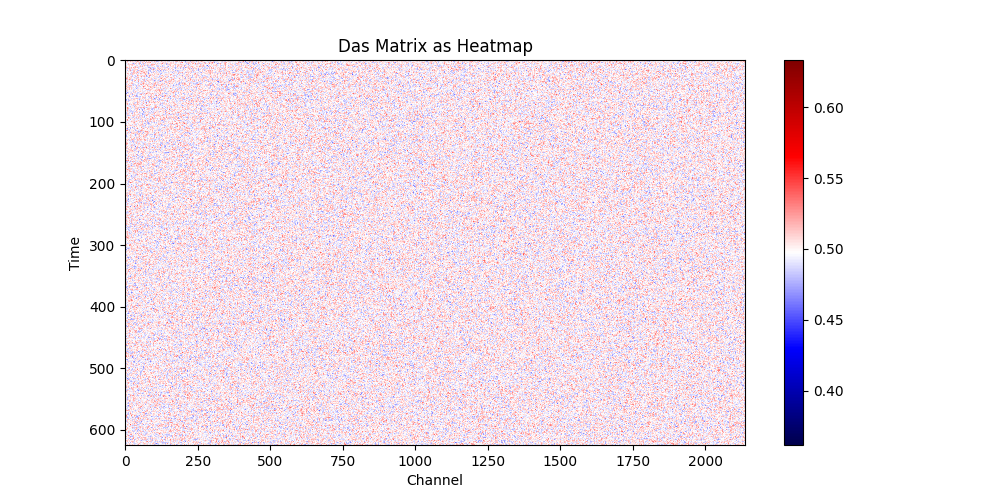
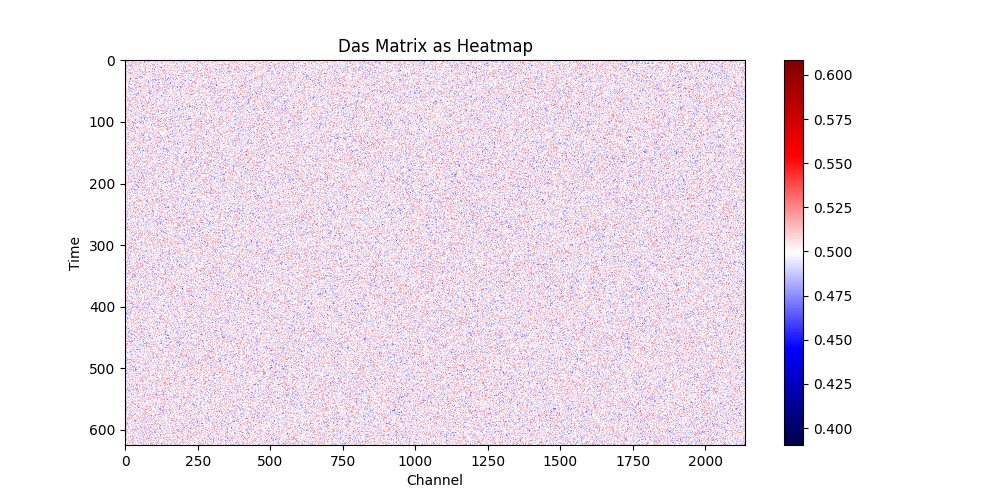
enums moved to their own file, predict now supports all calls

diff --git a/tinydas/models/base.py b/tinydas/models/base.py
@@ -3,6 +3,9 @@ from typing import Dict, Tuple
 
 from tinygrad.nn import Tensor
 
+from tinydas.enums import Models
+from tinydas.utils import minmax
+
 
 class BaseAE(ABC):
     """
@@ -34,7 +37,17 @@ class BaseAE(ABC):
         """
         Tensor.no_grad = True
         x = x.reshape(1, 625 * 2137)
-        (out,) = self(x)
+        x = minmax(x)
+        match self.__class__.__name__.lower():
+            case Models.AE:
+                (out,) = self(x)
+            case Models.CNNAE:
+                (out,) = self(x)
+            case Models.VAE:
+                (out, _, _) = self(x)
+            case _:
+                (out,) = self(x)
+
         out = out.reshape(625, 2137)
         Tensor.no_grad = False
         return out.realize()

diff --git a/tinydas/selections.py b/tinydas/selections.py
@@ -1,18 +1,12 @@
-from enum import Enum
 from typing import List
 
 from tinygrad import Tensor, nn
 from tinygrad.nn.optim import Optimizer
 
+from tinydas.enums import Opti
 from tinydas.models.ae import AE
 from tinydas.models.cnnae import CNNAE
 from tinydas.models.vae import VAE
-
-
-class Opti(Enum):
-    ADAM = "adam"
-    ADAMW = "adamw"
-    SGD = "sgd"
 
 
 def select_optimizer(optimizer: Opti, parameters: List[Tensor], **config) -> Optimizer:

diff --git a/main.py b/main.py
@@ -61,7 +61,6 @@ def show_imgs(args):
         plot_das_as_heatmap(
             data.numpy(), show=False, path=f"figs/{args.model}/before.png"
         )
-        data = minmax(data)
 
         reconstructed = model.predict(data)
 

diff --git a/tinydas/enums.py b/tinydas/enums.py
@@ -1,0 +1,14 @@
+from enum import Enum
+
+
+class Models(Enum):
+    AE = "ae"
+    VAE = "vae"
+    CNNAE = "cnnae"
+    BETAVAE = "betavae"
+
+
+class Opti(Enum):
+    ADAM = "adam"
+    ADAMW = "adamw"
+    SGD = "sgd"
